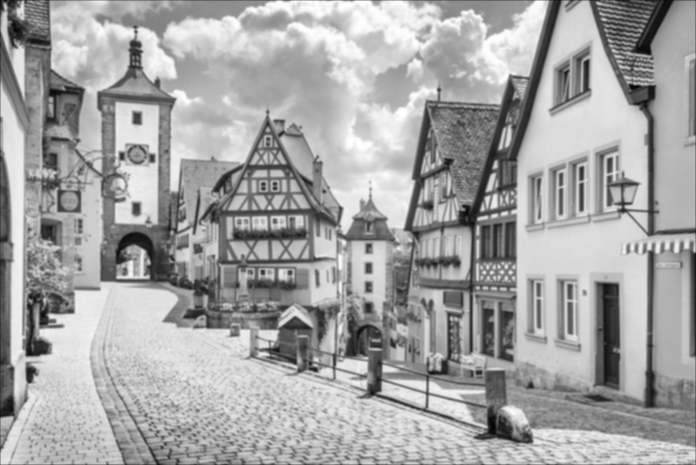
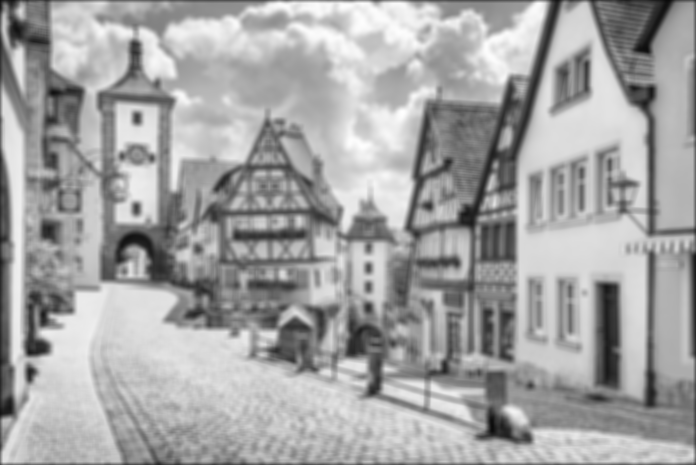
find bilateral parameter

diff --git a/bilateral/main.py b/bilateral/main.py
@@ -9,7 +9,7 @@ def spatial_kernel(s=1, reduce=True):
     x = np.tile((np.arange(l) - l // 2).reshape(1, l), (l, 1))
     y = np.transpose(x)
     d = x**2 + y**2
-    g = np.exp(-d / (2 * (s**2)))
+    g = np.exp(-d / (2 * (s**2))) / (2 * np.pi * (s**2))
     if reduce:
         g /= np.sum(g.ravel())
     return g
@@ -18,8 +18,8 @@ def range_kernel(I, s=1, reduce=True):
     assert I.shape[0] == I.shape[1]
     l = I.shape[0]
     I = I.copy().astype(np.float64)
-    I = (I - I[l // 2, l // 2])  # minus center pixel value
-    k = np.exp(-I / (2 * (s**2)))
+    I = np.abs((I - I[l // 2, l // 2]))  # minus center pixel value
+    k = np.exp(-I / (2 * (s**2))) / (2 * np.pi * (s**2))
     if reduce:
         k /= np.sum(k.ravel())
     return k
@@ -45,8 +45,10 @@ def bilateral_filter(img, s1, s2):
 if __name__ == '__main__':
     img = Image.open('../data/town.png').convert('L')
     img = np.array(img)
-    k = spatial_kernel(1)
+    k = spatial_kernel(3)
     gaussian_filtered = convolve2d(img, k, mode='same').astype(np.uint8)
-    bilateral_filtered = bilateral_filter(img, 1, 0.5)
+    bilateral_filtered = bilateral_filter(img, 3, 5)
+    Image.fromarray(img).save('../results/original.png')
     Image.fromarray(bilateral_filtered).save('../results/bilateral.png')
     Image.fromarray(gaussian_filtered).save('../results/guassian.png')
+    #Image.fromarray(residual).save('test.png')

diff --git a/README.md b/README.md
@@ -1,0 +1,8 @@
+# filters
+> Image filters.
+This is a repository for exploring image filters in digital image processing.
+
+## Bilateral filter
+|Bilateral(3, 5)|Gaussian(3)|
+|--|--|
+|![img](./results/bilateral.png)|![img](./results/guassian.png)|
